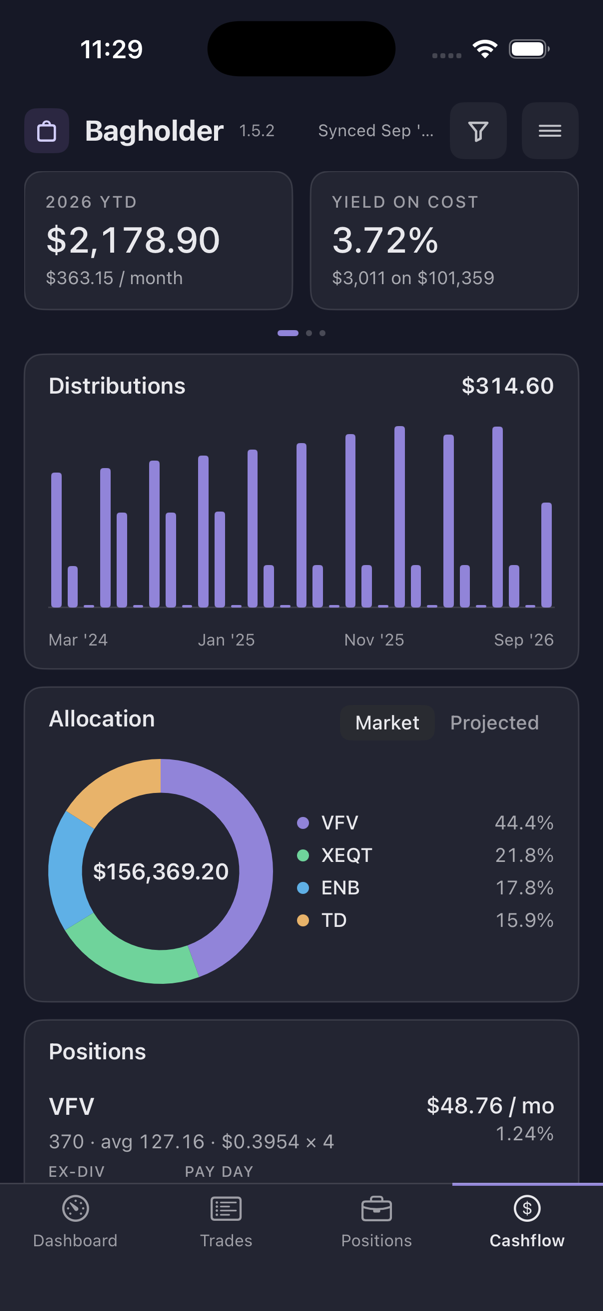
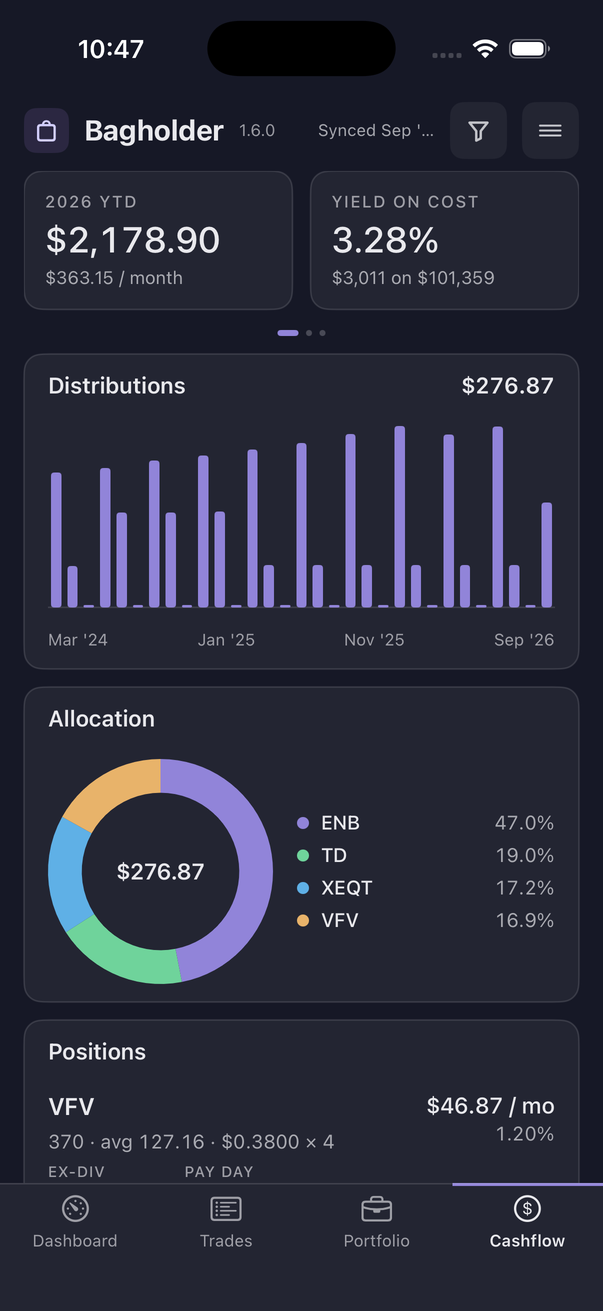
Cashflow Allocation by projected income only; the hover reads as the Portfolio donut's.
The Market / Projected switch is gone on the desktop and both phones:
the donut is each income holding's share of projected monthly income.
The desktop centre reads Projected and the total at rest, and the
hovered slice's symbol, amount and share in the Portfolio donut's
layout. SPEC §4 and §8 updated; the README Cashflow images reshot.

diff --git a/ledger.html b/ledger.html
@@ -1318,22 +1318,17 @@ function cashflowHtml(m) {
     (rows.length ? rows.map((r) => '<tr class="tab"><td style="color:var(--ink75);white-space:nowrap">' + esc(r.date) + '</td><td style="font-weight:500;font-variant-numeric:normal;white-space:nowrap">' + esc(r.symbol) + '</td><td style="font-variant-numeric:normal;color:var(--ink75);white-space:nowrap">' + esc(r.kind) + '</td><td style="font-variant-numeric:normal;color:var(--ink75);white-space:nowrap;overflow:hidden;text-overflow:ellipsis">' + esc(r.account) + '</td><td style="text-align:right;color:var(--ink75)">' + (r.qty ? qty(r.qty) : "—") + '</td><td style="text-align:right;color:var(--ink75)">' + (r.per ? "$" + r.per.toFixed(4) : "—") + '</td><td style="text-align:right;font-weight:500">' + money(r.amount, r.currency) + "</td></tr>").join("") : '<tr><td colspan="7" class="dim" style="padding:22px 0;font-variant-numeric:normal">No distributions match these filters.</td></tr>') +
     "</tbody></table></div></div></div></div>";
 }
-// The pie: each income holding's share of the whole, by market value or by
-// projected monthly income. The centre reads the total, or the hovered slice.
-const PIE_BY = [["mv", "Market"], ["proj", "Projected"]];
-function pieBy() { const v = state.pieBy || (function () { try { return localStorage.getItem("bh2.pieBy"); } catch (e) { return ""; } })(); return v === "proj" ? "proj" : "mv"; }
-function setPieBy(v) { state.pieBy = v; try { localStorage.setItem("bh2.pieBy", v); } catch (e) {} }
+// The pie: each income holding's share of the whole by projected monthly income.
+// The centre reads the total, or the hovered slice's symbol, value and share.
 function pieSlices(rows) {
-  const by = pieBy();
-  const val = (h) => (by === "mv" ? (h.mv != null ? h.mv : null) : (h.annual != null ? h.annual / 12 : null));
+  const val = (h) => (h.annual != null ? h.annual / 12 : null);
   const items = rows.map((h) => ({ symbol: h.symbol, account: h.account, v: val(h) })).filter((x) => x.v != null && x.v > 0).sort((a, b) => b.v - a.v);
   const total = items.reduce((a, x) => a + x.v, 0);
-  return { by, total, items: items.map((x, i) => Object.assign(x, { share: total ? x.v / total : 0, color: "var(--pie-" + ((i % 8) + 1) + ")" })) };
+  return { total, items: items.map((x, i) => Object.assign(x, { share: total ? x.v / total : 0, color: "var(--pie-" + ((i % 8) + 1) + ")" })) };
 }
 function pieCardHtml(rows) {
   const p = pieSlices(rows);
-  const pills = PIE_BY.map((x) => '<button class="pill' + (x[0] === p.by ? " on" : "") + '" data-act="pieBy" data-arg=\'' + attr({ by: x[0] }) + "' style=\"padding:2px 8px;font-size:11px;width:auto\">" + x[1] + "</button>").join("");
-  const fmt = (v) => (p.by === "mv" ? money0(v) : money0(v) + "/mo");
+  const fmt = (v) => money0(v) + "/mo";
   const R = 44, W = 14, C = 60, SIZE = 236;
   let acc = 0;
   const arcs = p.items.map((x, i) => {
@@ -1345,10 +1340,10 @@ function pieCardHtml(rows) {
     return '<path d="' + d + '" fill="none" stroke="' + x.color + '" stroke-width="' + W + '" data-slice="' + i + '" style="cursor:default"/>';
   }).join("");
   return '<div class="card elev-sm" style="padding:16px 18px 12px;display:flex;flex-direction:column;min-height:0">' +
-    '<div style="display:flex;align-items:baseline;justify-content:space-between;gap:8px;margin-bottom:10px"><h5>Allocation</h5><div style="display:flex;gap:4px">' + pills + "</div></div>" +
+    '<div style="display:flex;align-items:baseline;justify-content:space-between;gap:8px;margin-bottom:10px"><h5>Allocation</h5></div>' +
     (p.items.length ? '<div id="piePlot" data-hover="pie" style="display:flex;gap:22px;align-items:center;flex:1;min-height:0">' +
       '<div style="position:relative;width:' + SIZE + 'px;height:' + SIZE + 'px;flex:none"><svg viewBox="0 0 120 120" style="width:' + SIZE + 'px;height:' + SIZE + 'px;display:block">' + arcs + "</svg>" +
-      '<div id="pieCentre" style="position:absolute;inset:0;display:flex;flex-direction:column;align-items:center;justify-content:center;text-align:center;pointer-events:none"><div class="tab" style="font-size:17px;font-weight:500">' + fmt(p.total) + '</div><div class="muted" style="font-size:11px;margin-top:2px">' + esc(p.by === "mv" ? "market value" : "projected") + "</div></div></div>" +
+      '<div id="pieCentre" style="position:absolute;inset:0;display:flex;flex-direction:column;align-items:center;justify-content:center;text-align:center;pointer-events:none"><div class="lbl">Projected</div><div class="tab" style="font-size:17px;font-weight:500;margin-top:2px">' + fmt(p.total) + "</div></div></div>" +
       '<div id="pieLegend" class="scroll" style="flex:1;min-width:0;min-height:0;max-height:100%;display:grid;grid-template-columns:auto minmax(0,1fr) auto auto;column-gap:12px;row-gap:9px;align-content:center;align-items:center;font-size:12.5px">' +
       p.items.map((x, i) => '<span data-slice="' + i + '" style="display:contents"><span style="width:9px;height:9px;border-radius:2px;background:' + x.color + '"></span><span style="font-weight:500;font-variant-numeric:normal;white-space:nowrap;overflow:hidden;text-overflow:ellipsis">' + esc(x.symbol) + '</span><span class="tab" style="text-align:right;white-space:nowrap">' + fmt(x.v) + '</span><span class="tab muted" style="text-align:right;white-space:nowrap;min-width:44px">' + pctPlain(x.share) + "</span></span>").join("") +
       "</div></div>" : '<div class="muted empty" style="flex:1;font-size:12px">No income holdings in scope.</div>') + "</div>";
@@ -1361,9 +1356,9 @@ function pieHover(e) {
   const centre = document.getElementById("pieCentre"); if (!centre) return;
   const p = pieSlices(cashflowHoldingRows());
   const x = i >= 0 ? p.items[i] : null;
-  const fmt = (v) => (p.by === "mv" ? money0(v) : money0(v) + "/mo");
-  centre.innerHTML = x ? '<div class="tab" style="font-size:13px;font-weight:500">' + fmt(x.v) + '</div><div class="muted" style="font-size:10px">' + esc(x.symbol) + " · " + pctPlain(x.share) + "</div>"
-    : '<div class="tab" style="font-size:13px;font-weight:500">' + fmt(p.total) + '</div><div class="muted" style="font-size:10px">' + esc(p.by === "mv" ? "market value" : "projected") + "</div>";
+  const fmt = (v) => money0(v) + "/mo";
+  centre.innerHTML = x ? '<div class="lbl">' + esc(x.symbol) + '</div><div class="tab" style="font-size:17px;font-weight:500;margin-top:2px">' + fmt(x.v) + '</div><div class="muted" style="font-size:11px;margin-top:2px">' + pctPlain(x.share) + "</div>"
+    : '<div class="lbl">Projected</div><div class="tab" style="font-size:17px;font-weight:500;margin-top:2px">' + fmt(p.total) + "</div>";
 }
 function pieLeave() { pieHover({ target: document.body }); }
 function cashflowHoldingRows() {
@@ -1615,7 +1610,6 @@ function act(name, arg, ev) {
     case "chartTf": setChartTf(arg.tf); render(); break;
     case "chartBasis": setChartBasis(arg.basis); render(); break;
     case "benchmark": setBenchmark(arg.key); break;
-    case "pieBy": setPieBy(arg.by); render(); break;
     case "clearField": clearField(arg.key); break;
     case "clearAll": state.filters = EMPTY_FILTERS(); state.picker = null; setFilters({}); break;
     case "toggleList": {

diff --git a/android/app/src/main/kotlin/com/bagholder/app/MainActivity.kt b/android/app/src/main/kotlin/com/bagholder/app/MainActivity.kt
@@ -991,7 +991,6 @@ fun rateLine(h: Holding): String {
 fun CashflowScreen(chrome: Chrome) {
     val t = LocalTheme.current
     val v = Book.view
-    var allocBy by remember { mutableStateOf(Store.allocationBy) }
     var picked by remember { mutableStateOf<Int?>(null) }
     var distPick by remember { mutableStateOf<Int?>(null) }
     Column(Modifier.fillMaxSize()) {
@@ -1013,17 +1012,10 @@ fun CashflowScreen(chrome: Chrome) {
             }
             item {
                 val items = cf.holdings.map { h ->
-                    Pair(h.symbol + if (cf.holdings.count { it.symbol == h.symbol } > 1) " · " + h.account else "", if (allocBy == "projected") (h.annual ?: 0.0) / 12 else h.qty * h.last)
+                    Pair(h.symbol + if (cf.holdings.count { it.symbol == h.symbol } > 1) " · " + h.account else "", (h.annual ?: 0.0) / 12)
                 }.filter { it.second > 0 }.sortedByDescending { it.second }
                 val total = items.sumOf { it.second }
-                Card("Allocation", trailing = {
-                    Row {
-                        for (k in listOf("market", "projected")) {
-                            Text(if (k == "market") "Market" else "Projected", fontSize = 13.sp, fontWeight = FontWeight.Medium, color = if (allocBy == k) t.ink else t.ink55,
-                                modifier = Modifier.clip(RoundedCornerShape(7.dp)).background(if (allocBy == k) t.well else Color.Transparent).clickable { allocBy = k; Store.allocationBy = k; picked = null }.padding(horizontal = 10.dp, vertical = 4.dp))
-                        }
-                    }
-                }) {
+                Card("Allocation") {
                     if (items.isEmpty()) Muted("No income holdings in scope.")
                     else Row(verticalAlignment = Alignment.CenterVertically, horizontalArrangement = Arrangement.spacedBy(16.dp)) {
                         DonutChart(items, picked, { picked = it })

diff --git a/ios/Bagholder/Screens.swift b/ios/Bagholder/Screens.swift
@@ -1111,7 +1111,6 @@ struct CashflowScreen: View {
     @Environment(\.theme) private var t
     @ObservedObject var book: Book
     let chrome: Chrome
-    @AppStorage("bagholder.allocationBy") private var allocBy = "market"
     @State private var picked: Int?
     @State private var distPick: Int? = nil
 
@@ -1174,18 +1173,10 @@ struct CashflowScreen: View {
 
     private func allocation(_ cf: BHCashflowView) -> some View {
         let items: [(label: String, value: Double)] = cf.holdings.map { h in
-            (h.symbol + (cf.holdings.filter { $0.symbol == h.symbol }.count > 1 ? " · " + h.account : ""), allocBy == "projected" ? (h.annual ?? 0) / 12 : h.qty * h.last)
+            (h.symbol + (cf.holdings.filter { $0.symbol == h.symbol }.count > 1 ? " · " + h.account : ""), (h.annual ?? 0) / 12)
         }.filter { $0.value > 0 }.sorted { $0.value > $1.value }
         let total = items.reduce(0.0) { $0 + $1.value }
-        let switcher = HStack(spacing: 0) {
-            ForEach(["market", "projected"], id: \.self) { k in
-                Button(k == "market" ? "Market" : "Projected") { allocBy = k; picked = nil }
-                    .font(.system(size: 13, weight: .medium)).foregroundStyle(allocBy == k ? t.ink : t.ink55)
-                    .padding(.horizontal, 10).padding(.vertical, 4)
-                    .background(RoundedRectangle(cornerRadius: 7).fill(allocBy == k ? t.well : .clear))
-            }
-        }
-        return Card(title: "Allocation", trailing: AnyView(switcher)) {
+        return Card(title: "Allocation") {
             if items.isEmpty { Text("No income holdings in scope.").font(.system(size: 14)).foregroundStyle(t.ink55) }
             else {
                 HStack(alignment: .center, spacing: 16) {

diff --git a/android/app/src/main/kotlin/com/bagholder/app/Store.kt b/android/app/src/main/kotlin/com/bagholder/app/Store.kt
@@ -180,7 +180,4 @@ object Store {
         else -> v
     }
 
-    var allocationBy: String
-        get() = prefs.getString("allocationBy", "market") ?: "market"
-        set(v) = prefs.edit().putString("allocationBy", v).apply()
 }

diff --git a/SPEC.md b/SPEC.md
@@ -250,7 +250,7 @@ Avg and Market belong to the row's own position, matched by position id, never b
 
 **Allocation and Distribution history** share one row, the Allocation card about 38% of the width on the left, the history the rest on the right, both 380px tall with their contents scrolling inside. The history table has fixed column widths (Date 14%, Symbol 11%, Type 12%, Account 22%, Qty 12%, Distribution 16%, Amount 13%) so spacing is even whatever the rows hold; the Account cell truncates with an ellipsis at its column width, so a long account name cannot push the table past its card.
 
-**Allocation.** A donut of the income holdings in scope, each holding's share of the whole by market value or by projected monthly income, chosen with a Market / Projected switch that is remembered on this machine. Slices are ordered largest first and coloured from an eight-colour palette defined per theme: saturated on the dark themes, pastel in Light so the slices sit as softly on the page as its other colours do. The donut fills the card's height; the centre reads the total, or the hovered slice's value, symbol and share; the legend beside it is an aligned grid of symbol, value and share, vertically centred on the donut. No browser tooltips.
+**Allocation.** A donut of the income holdings in scope, each holding's share of the whole by projected monthly income; no switch. Slices are ordered largest first and coloured from the palette defined per theme: saturated on the dark themes, pastel in Light so the slices sit as softly on the page as its other colours do. The donut fills the card's height; the centre reads `Projected` and the total, or the hovered slice's symbol, value and share, laid out as the Portfolio donut's centre; the legend beside it is an aligned grid of symbol, value and share, vertically centred on the donut. No browser tooltips.
 
 **Distribution history.** Date · Symbol · Type · Account · Qty · Distribution · Amount, newest first, amounts in native currency, scrolling inside its card.
 
@@ -293,7 +293,7 @@ The iOS and Android apps show the same figures as the web page, computed on the 
 
 **Portfolio.** Tiles; Allocation (the donut, one slice each up to ten holdings and otherwise the ten largest and `Other (N)`, with the symbols and their shares beside it); Holdings, each row the symbol (`SHORT` on a short) with `account · Book · Market` under it on the left, the unrealized P&L over its percentage on the right, then `Today` with the day's change and percent, or `—` without a quote; sorted by unrealized P&L. A tap opens the holding on the screen a trade opens, titled `Holding`: the chart with the fills, Open, Close (blank), Entry, Exit, Qty, Hold, Account, the executions and the journal.
 
-**Cashflow.** Tiles; Distributions (the monthly bars in the accent colour); Allocation with its Market/Projected toggle; Positions, each row the symbol with `shares · avg · dist × freq` under it on the left, the month's payout over the yield on cost on the right, then Ex-Div and Pay Day; History, each row the symbol, `date · qty × per`, the amount and its currency, without the payment kind.
+**Cashflow.** Tiles; Distributions (the monthly bars in the accent colour); Allocation (the donut by projected monthly income, with the symbols and their shares beside it); Positions, each row the symbol with `shares · avg · dist × freq` under it on the left, the month's payout over the yield on cost on the right, then Ex-Div and Pay Day; History, each row the symbol, `date · qty × per`, the amount and its currency, without the payment kind.
 
 **Connecting.** Connect opens Wealthsimple's sign-in page in the app's own web view, kept loaded ahead of the tap, and captures the session from its cookies once signed in; sign in with email, password and the two-factor code. A passkey does not work inside an app's web view on either platform: iOS refuses the request unless the app is a browser or the site lists the app, and Android's web view hides the button; that is the platforms' rule, not a fault to fix.
 
